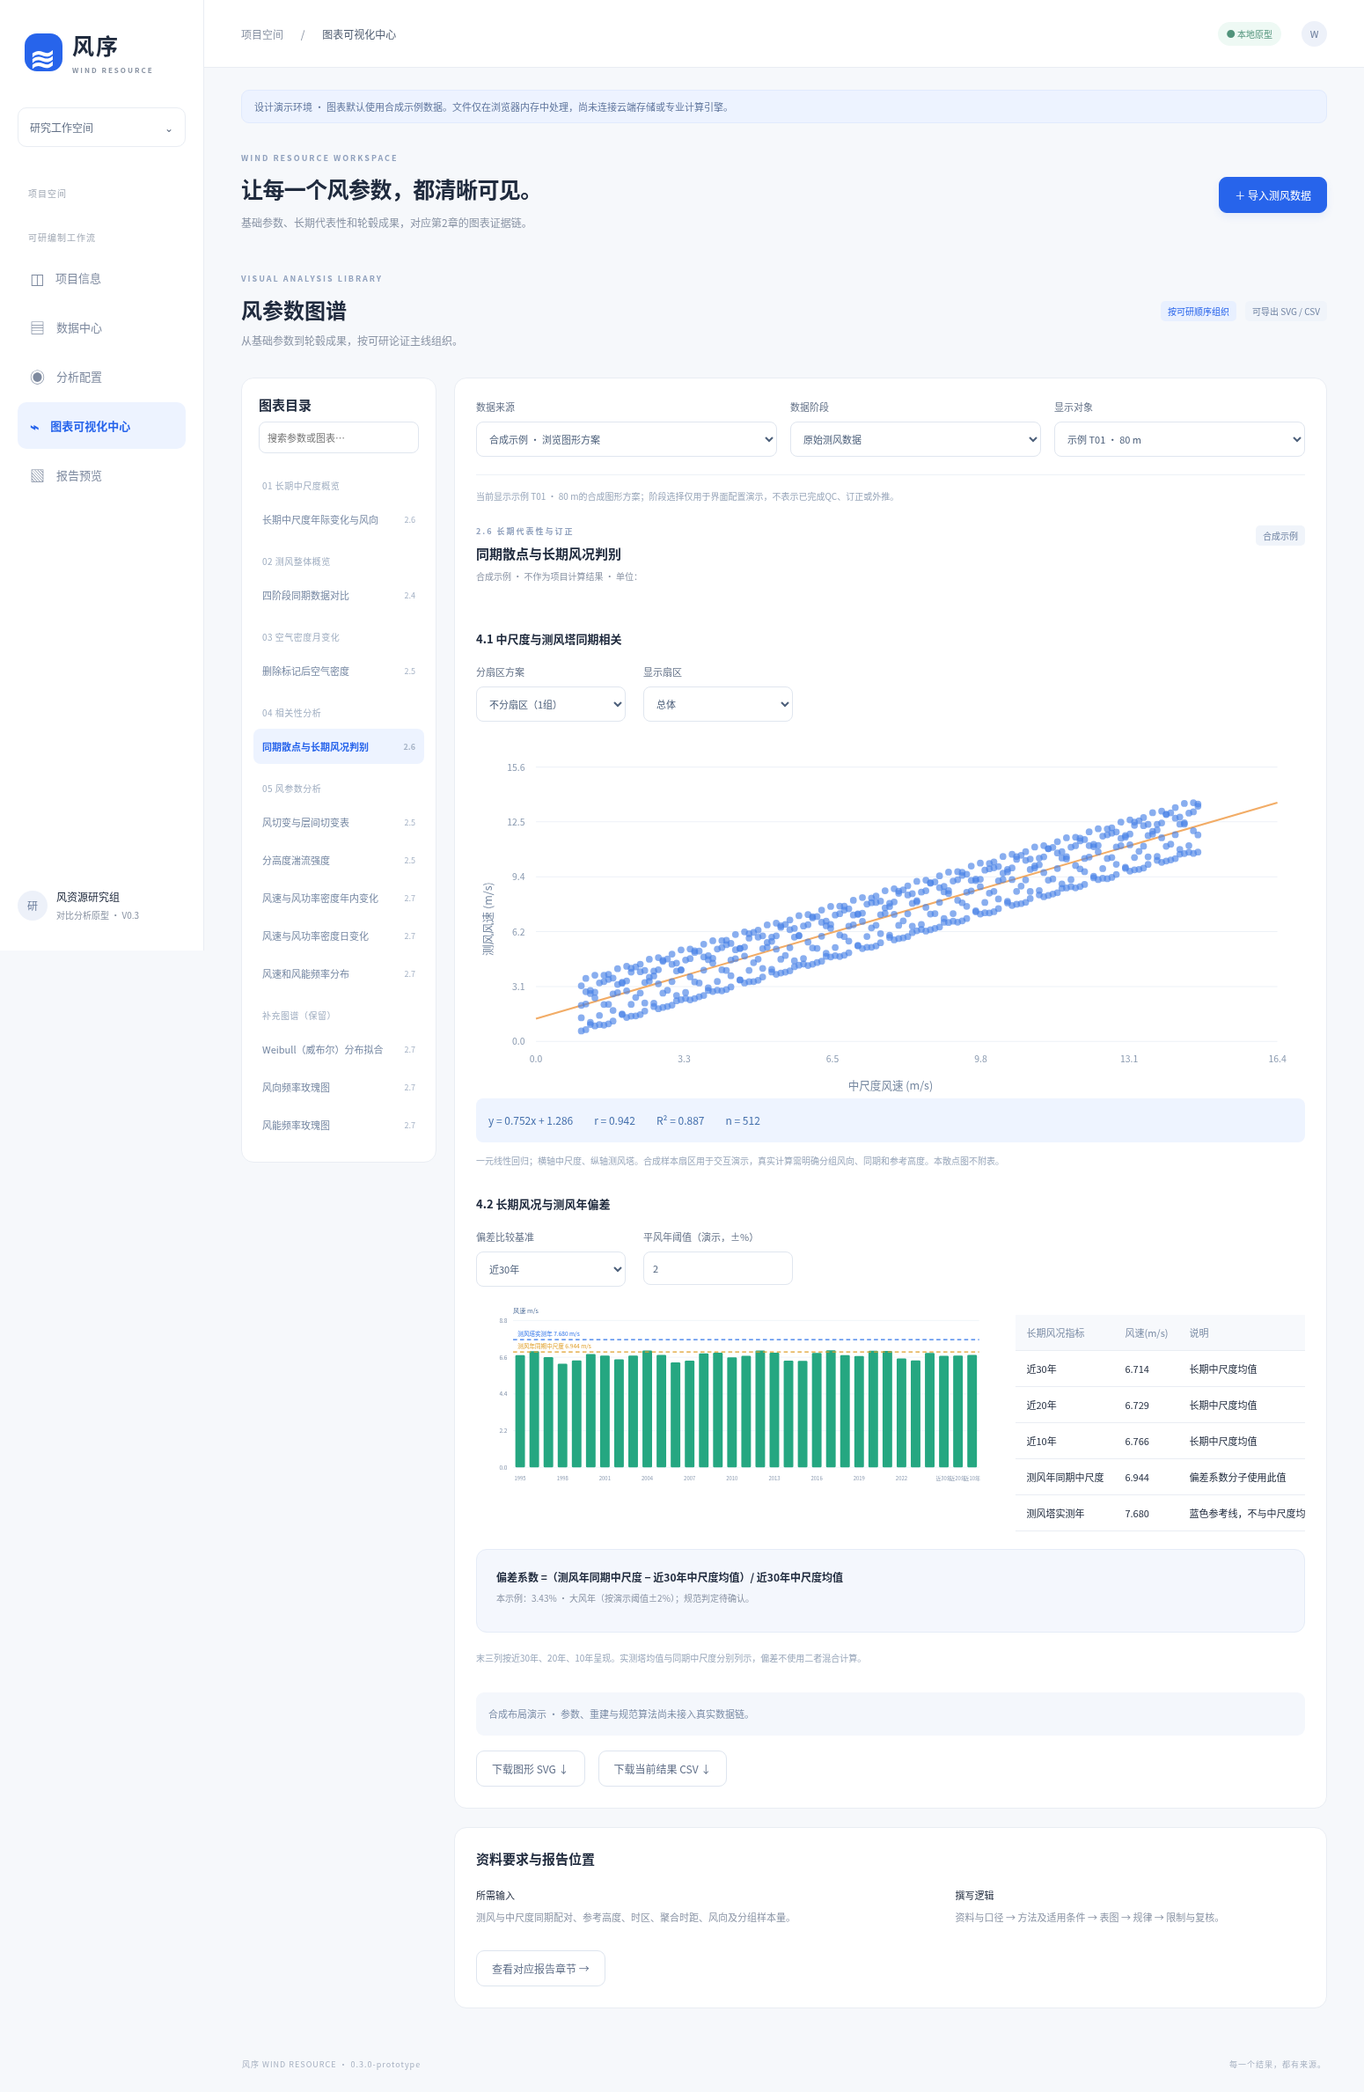
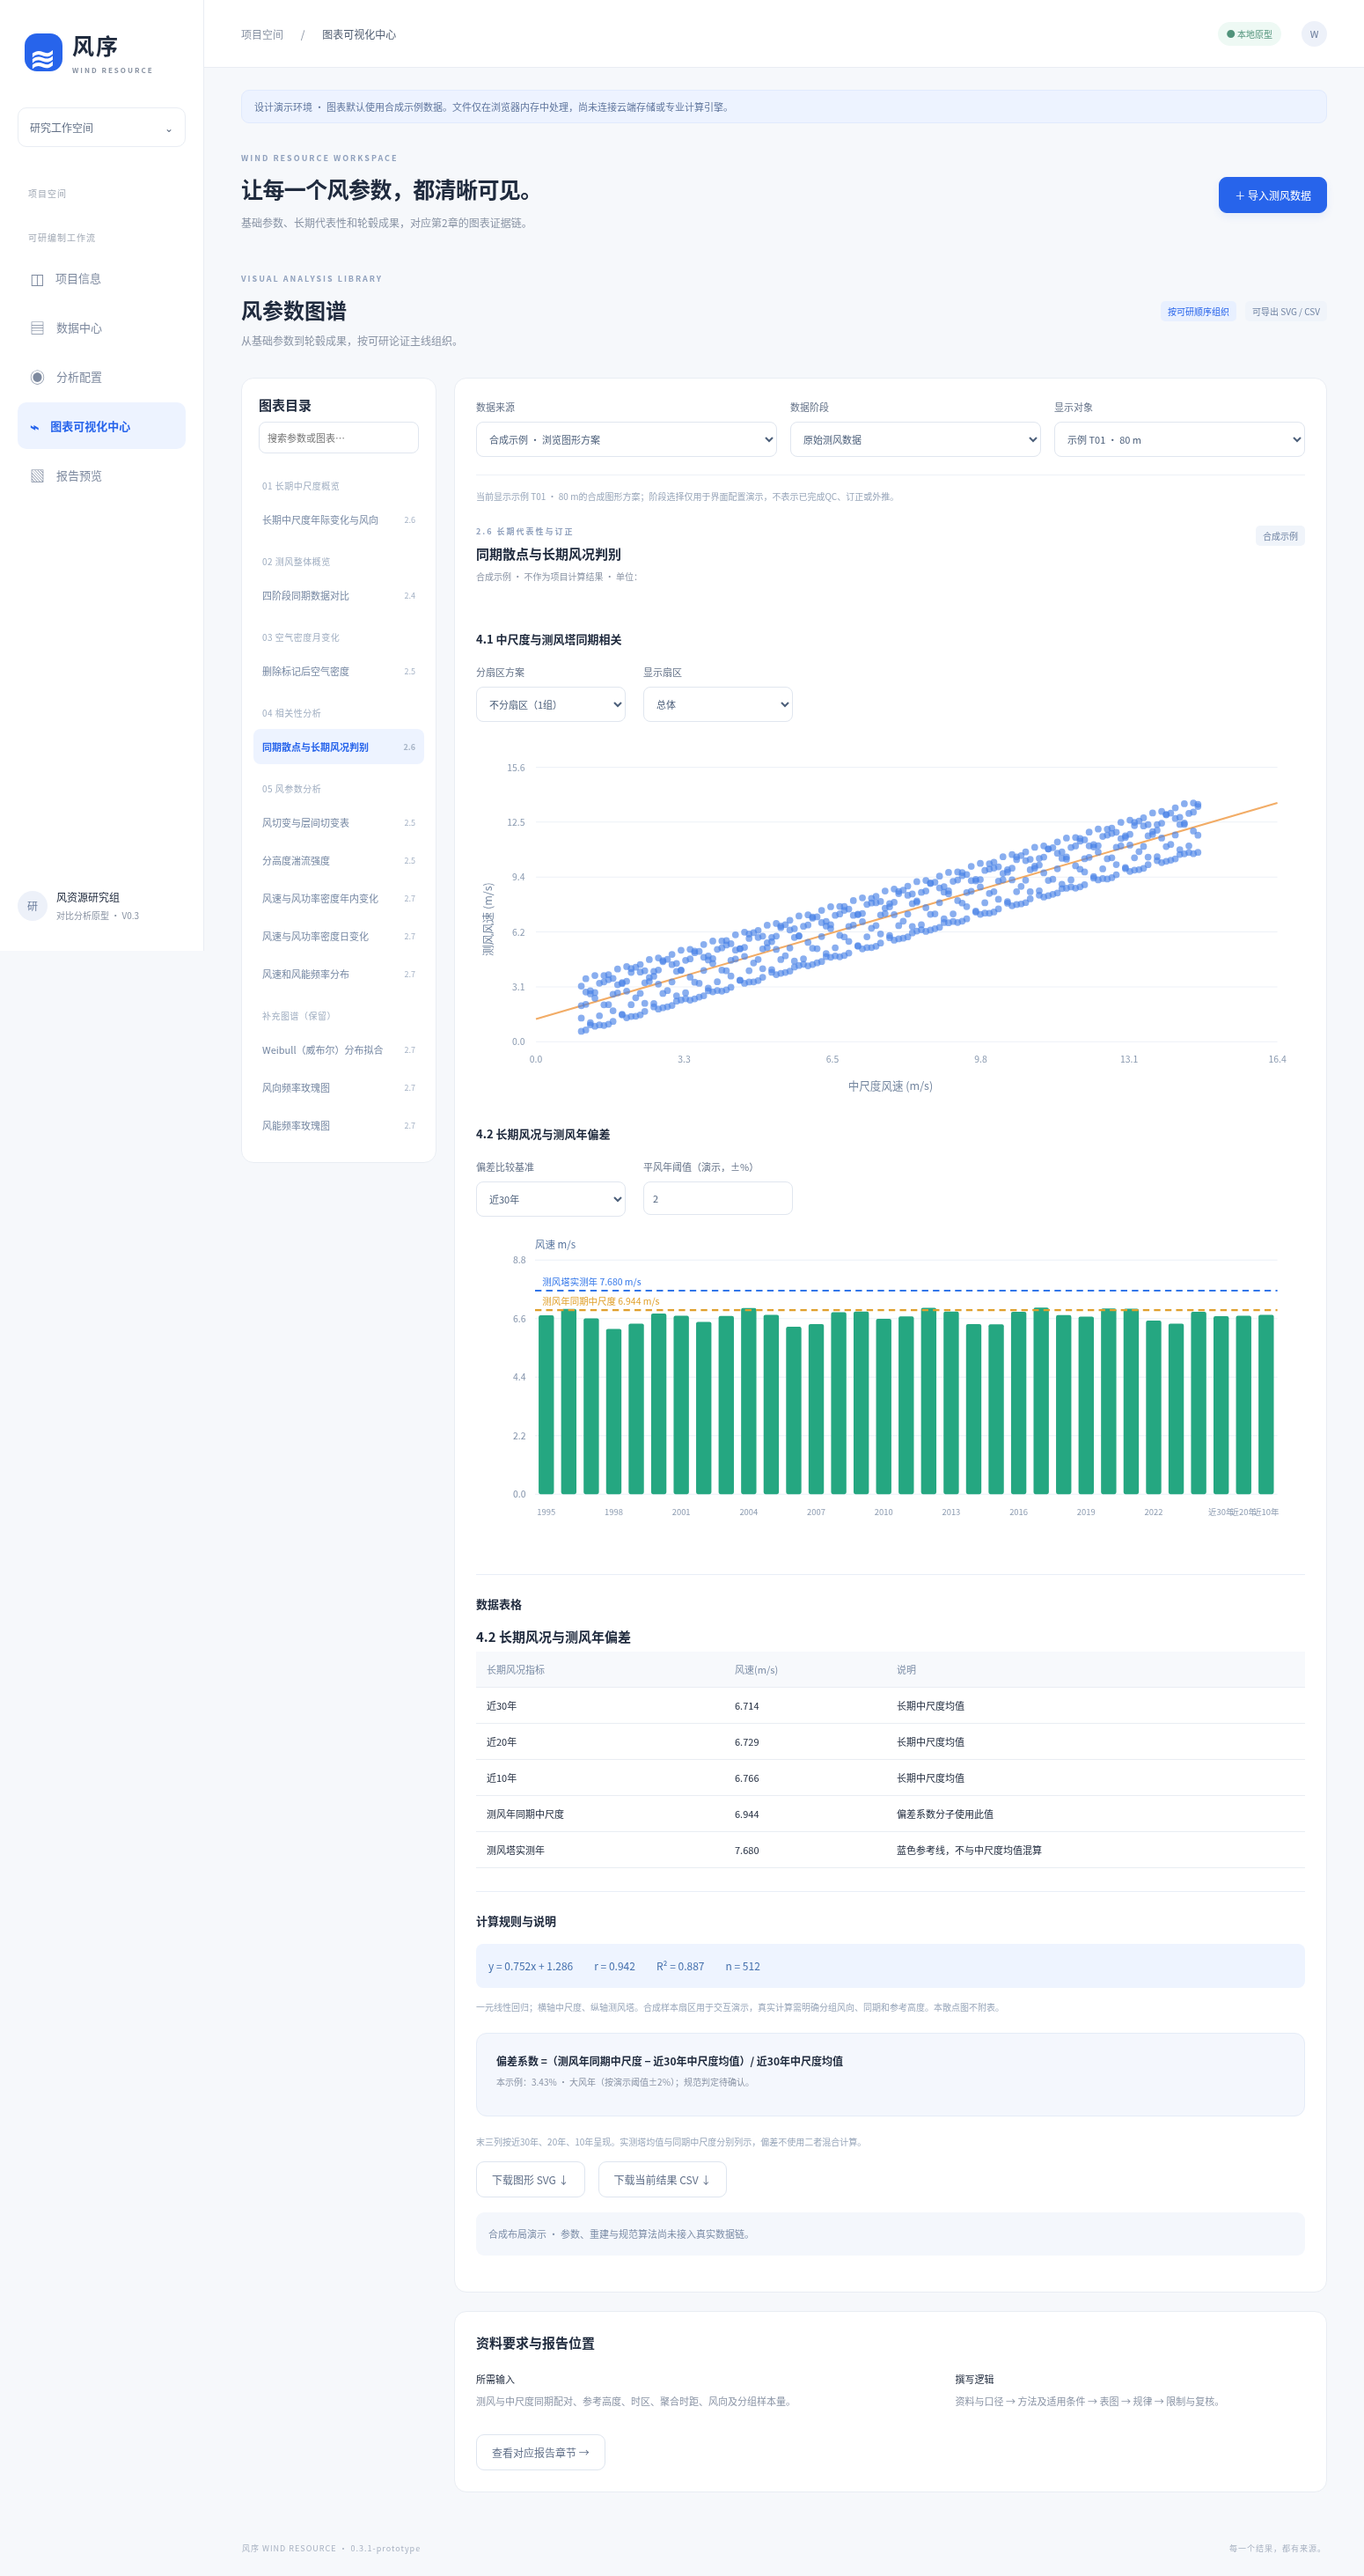
fix: present charts before tables and calculation rules

diff --git a/gui/style.css b/gui/style.css
@@ -3,3 +3,11 @@
 textarea{display:block;width:100%;resize:vertical;border:1px solid #e0e6ef;border-radius:9px;padding:12px;margin-top:9px;font:inherit;color:#4c5f7a}button:disabled{opacity:.45;cursor:not-allowed}.templateMap{margin:16px 0}.templateMap button{border:0;border-bottom:1px solid #eef2f7;background:none;display:flex;align-items:center;width:100%;padding:13px 0;text-align:left;font-size:11px;color:#687b96;gap:12px}.templateMap button span{color:#3e76cf;background:#edf4ff;padding:4px 7px;border-radius:5px;min-width:38px}.templateMap button small{margin-left:auto;color:#a1b0c6}.vizSummary{display:flex;align-items:center;justify-content:space-between;padding:5px 0 25px}.vizSummary h2{margin:10px 0 6px;font-size:24px}.vizlayout{display:grid;grid-template-columns:222px minmax(0,1fr);gap:20px}.chartcatalog{padding:19px 13px;height:fit-content;position:sticky;top:18px}.cataloghead{padding:0 6px 12px}.cataloghead input{font-size:11px;padding:9px}.graphgroup{font-size:10px;letter-spacing:.5px;color:#a0aec1;padding:17px 10px 8px}#chartTabs button{border:0;background:none;display:flex;width:100%;align-items:center;justify-content:space-between;text-align:left;font-size:11px;padding:12px 10px;border-radius:8px;color:#7587a2;gap:5px;margin:3px 0}#chartTabs button small{font-size:9px;color:#a6b3c6}#chartTabs button.selected{background:#edf3ff;color:#2764eb;font-weight:600}.vizmain{min-width:0}.vizfilters{display:grid;grid-template-columns:1.2fr 1fr 1fr;gap:15px;border-bottom:1px solid #edf1f7;padding-bottom:20px;margin-bottom:15px}.contextnote{font-size:10px;line-height:1.8;color:#98a6ba;margin:12px 0 24px}.chartStats{display:grid;grid-template-columns:repeat(3,minmax(0,1fr));gap:12px;margin-top:22px}.chartStats div{padding:13px;background:#f7f9fd;border-radius:9px;overflow-wrap:anywhere}.chartStats span{display:block;font-size:9px;color:#98a7ba;margin-bottom:8px}.chartStats b{font-size:12px;color:#4b6489;font-weight:500}.vizmain .large{min-height:220px}.vizmain .charttoolbar{justify-content:flex-start;flex-wrap:wrap;margin:0}.requiregrid{display:grid;grid-template-columns:1.3fr 1fr;gap:28px;margin:20px 0}.requiregrid b{font-size:11px;font-weight:500}.requiregrid p{font-size:11px}.missing{text-align:center;padding:45px 20px}.missing>span{font-size:45px;color:#abbdd7}.missing h3{color:#6d82a1;margin:12px 0}.missing p{max-width:600px;margin:15px auto 25px}.reportGraphLinks{display:flex;gap:8px;flex-wrap:wrap}.reportGraphLink{background:#f2f6ff;color:#5c79a7;border:1px solid #e0e9f8;border-radius:8px;padding:9px 12px;font-size:10px}.reportintro{margin-top:0}#sectorFilter{max-width:220px;margin-top:18px}.vizmain #chapterBinding{margin-bottom:8px}#mainChart svg{max-height:450px}.projectline h1{font-size:25px}@media(min-width:1600px){.vizlayout{grid-template-columns:240px minmax(0,1fr)}}@media(max-width:1150px){.vizlayout{grid-template-columns:190px minmax(0,1fr)}.vizfilters{grid-template-columns:1fr 1fr}.vizfilters label:first-child{grid-column:1/-1}.chartStats{gap:7px}.chartStats b{font-size:10px}}@media(max-width:850px){.vizlayout{grid-template-columns:1fr}.chartcatalog{position:static}.graphgroup{width:100%;padding-top:12px}#chartTabs{display:flex;flex-wrap:wrap;gap:5px}#chartTabs button{width:auto;border:1px solid #edf1f7;padding:9px 11px}#chartTabs button small{display:none}.vizSummary{align-items:flex-start;gap:12px}.vizSummary>div:last-child{white-space:nowrap}}@media(max-width:500px){.vizfilters{grid-template-columns:1fr}.vizfilters label:first-child{grid-column:auto}.chartStats{grid-template-columns:1fr 1fr}.chartStats div:last-child{grid-column:1/-1}.requiregrid{grid-template-columns:1fr;gap:10px}.vizSummary{flex-direction:column}.vizmain .charttoolbar{align-items:stretch}.vizmain .charttoolbar button{width:100%}.projectline h1{font-size:22px}}
 /* V0.3 feasibility-review compositions */
 .v03two{display:grid;grid-template-columns:1.6fr 1fr;gap:22px}.v03two.wideleft{grid-template-columns:1.8fr 1fr}.v03block{margin:25px 0 30px;min-width:0}.v03block>h3{font-size:13px;margin:0 0 17px}.v03block svg,.v03two svg{width:100%;height:auto;display:block}.v03legend{display:flex;gap:20px;flex-wrap:wrap;margin:13px 0;font-size:10px;color:#6a7e9b}.v03legend span{display:flex;align-items:center;gap:7px}.v03legend i,.v03toggles i{width:9px;height:9px;display:inline-block;border-radius:3px}.v03toggles{display:flex;gap:14px;flex-wrap:wrap;margin:24px 0}.v03toggles label{display:flex;align-items:center;gap:7px;border:1px solid #e6edf6;border-radius:8px;padding:10px}.v03toggles input{width:auto;margin:0}.v03density{display:grid;grid-template-columns:1fr 210px;gap:18px;align-items:center}.formulaCard{position:static;width:auto;inset:auto;display:block;padding:22px;background:#f4f7fd;border:1px solid #e5ecf7;border-radius:12px;height:auto;min-width:0}.formulaCard p{font-size:10px}.equation{font-size:20px;margin:23px 0;color:#416da9;white-space:nowrap}.inlineFormula{margin:20px 0;font-size:12px}.v03controls{display:flex;gap:20px;flex-wrap:wrap;margin:20px 0}.v03controls label{min-width:170px}.v03fit{background:#eef4ff;padding:14px;border-radius:8px;font-size:12px;color:#4671ad;line-height:1.8}#v03Composition{margin-top:22px;min-width:0}#v03Composition>svg{width:100%;height:auto}#v03Composition .tablewrap{margin-top:12px}.v03two>.tablewrap{align-self:center}.vizmain{overflow:hidden}@media(max-width:1200px){.v03two,.v03two.wideleft,.v03density{grid-template-columns:1fr}.v03two svg{max-height:360px}.formulaCard{padding:17px}}@media(max-width:500px){.v03controls{flex-direction:column}.v03controls label{min-width:0}.v03toggles label{width:100%}.v03fit{font-size:10px}.inlineFormula{font-size:10px}}
+
+/* All chart pages present figures, tables, then rules. */
+.presentationFigures .v03density,.presentationFigures .v03two.wideleft{grid-template-columns:1fr}
+.presentationTables,.presentationRules{border-top:1px solid #e8eef7;margin-top:26px;padding-top:23px}
+.presentationTables>h3,.presentationRules>h3{font-size:13px;margin-bottom:17px}
+.presentationRules .formulaCard{position:static;width:auto;max-width:none}
+.presentationRules .contextnote{margin:13px 0}
+.presentationFigures>.tag{margin-bottom:15px}

diff --git a/gui/viz-v03.js b/gui/viz-v03.js
@@ -53,5 +53,38 @@ const renderV02=renderChart;
 renderChart=function(){const id=chartType;if($('#chartSource').value!=='example'||!ordered.some(g=>g[0]===id)){renderV02();$('#v03Composition')?.remove();$('#mainChart').style.display='';$('#chartTable').style.display='';$('#toggleTable').style.display='';return}renderV02();$('#v03Composition')?.remove();$('#mainChart').style.display='none';$('#chartTable').style.display='none';$('#sectorFilter').hidden=true;$('#toggleTable').style.display='none';$('#chartStats').innerHTML='';const wrap=document.createElement('div');wrap.id='v03Composition';const content={longterm:v03Long,overviewLines:v03Overview,density:v03Density,correlation:v03Correlation,shear:v03Shear,turbulence:v03Turbulence,monthly:()=>v03Time(false),daily:()=>v03Time(true),frequency:v03Frequency};wrap.innerHTML=content[id]();$('#mainChart').after(wrap);$('#svgDownload').disabled=false;$('#csvDownload').disabled=false;$('#chartNote').textContent='合成布局演示 · 参数、重建与规范算法尚未接入真实数据链。';$$('[data-series]').forEach(e=>e.onchange=()=>{v03State.visible[+e.dataset.series]=e.checked;renderChart()});if($('#v03SectorCount')){$('#v03SectorCount').value=v03State.sectorCount;$('#v03Sector').value=v03State.sector;$('#v03Baseline').value=v03State.baseline;$('#v03SectorCount').onchange=e=>{v03State.sectorCount=+e.target.value;v03State.sector='all';renderChart()};$('#v03Sector').onchange=e=>{v03State.sector=e.target.value;renderChart()};$('#v03Baseline').onchange=e=>{v03State.baseline=+e.target.value;renderChart()};$('#v03Threshold').onchange=e=>{const n=+e.target.value;if(!Number.isFinite(n)||n<0||n>100){toast('演示阈值需为0—100之间。');return}v03State.threshold=n;renderChart()}}};
 // Export a multi-panel SVG while preserving all panels and a source watermark.
 $('#svgDownload').onclick=()=>{const svgs=$('#v03Composition')?[...$('#v03Composition').querySelectorAll('svg')]:[$('#mainChart svg')].filter(Boolean);if(!svgs.length)return;let offset=40,total=40;const panels=svgs.map(svg=>{const v=svg.getAttribute('viewBox').split(' ').map(Number),height=900*v[3]/v[2];total+=height+25;return {svg,v,height}});let merged=`<svg xmlns="http://www.w3.org/2000/svg" viewBox="0 0 900 ${total}"><rect width="100%" height="100%" fill="white"/><text x="20" y="24" font-family="sans-serif" font-size="15">${esc(activeGraph.title)} · ${$('#chartSource').value==='example'?'合成示例，非项目成果':'真实文件基础预检'}</text>`;panels.forEach(p=>{merged+=`<svg x="0" y="${offset}" width="900" height="${p.height}" viewBox="${p.v.join(' ')}">${p.svg.innerHTML}</svg>`;offset+=p.height+25});merged+='</svg>';download(activeGraph.title+'.svg',merged,'image/svg+xml;charset=utf-8')};
+// Consistent presentation: charts first, then data tables, then calculation rules.
+function arrangeChartPresentation(){
+ const root=$('#v03Composition');
+ if(root){
+  const tables=[...root.querySelectorAll('.tablewrap')];
+  const rules=[...root.querySelectorAll('.formulaCard,.v03fit,p.contextnote')];
+  tables.forEach(node=>{const heading=node.closest('.v03block')?.querySelector('h3');if(heading)node.prepend(heading.cloneNode(true));node.remove()});
+  rules.forEach(node=>node.remove());
+  // Drop headings whose entire table or explanation has been relocated.
+  root.querySelectorAll('.v03block').forEach(node=>{
+   if(!node.querySelector('svg,input,select,table')&&!node.querySelector('.v03legend'))node.remove();
+  });
+  const figures=document.createElement('section');figures.className='presentationFigures';
+  while(root.firstChild)figures.append(root.firstChild);
+  root.append(figures);
+  if(!tables.length&&chartType==='overviewLines'){
+   const node=document.createElement('div');node.className='tablewrap';node.innerHTML=table(currentHeaders,currentRows);tables.push(node);
+  }
+  if(tables.length){
+   const section=document.createElement('section');section.className='presentationTables';section.innerHTML='<h3>数据表格</h3>';
+   tables.forEach(node=>section.append(node));root.append(section);
+  }
+  const section=document.createElement('section');section.className='presentationRules';section.innerHTML='<h3>计算规则与说明</h3>';
+  rules.forEach(node=>section.append(node));
+  if(!rules.length)section.insertAdjacentHTML('beforeend','<p>表图采用同一示例数据口径；实际计算需确认数据来源、时段、单位与处理方法。</p>');
+  root.append(section);
+ }
+ // Shared notes for original and imported views follow the result table too.
+ const note=$('#chartNote'),tableNode=$('#chartTable');
+ tableNode.after(note);
+}
+const renderOrderedCharts=renderChart;
+renderChart=function(){renderOrderedCharts();arrangeChartPresentation()};
 chartType='longterm';
 metrics();renderSlots();windowPreview();renderReport();renderCatalog();navigate(location.hash.slice(1)||'overview');

diff --git a/tests/smoke.py b/tests/smoke.py
@@ -16,6 +16,14 @@ with sync_playwright() as p:
   page.click(f'[data-chart="{key}"]')
   assert page.locator('#v03Composition svg,#mainChart svg').count()>0,key
  assert len(ids)==12
+ # Ensure rendered chart groups precede tables, and all rules follow tables.
+ for key in ids[:9]:
+  page.click(f'[data-chart="{key}"]')
+  assert page.evaluate("""()=>{
+   const r=document.querySelector('#v03Composition');
+   const graph=r.querySelector('svg'), table=r.querySelector('table'), rules=r.querySelector('.presentationRules');
+   return !!graph && !!rules && (!table || !!(graph.compareDocumentPosition(table)&Node.DOCUMENT_POSITION_FOLLOWING)) && (!table || !!(table.compareDocumentPosition(rules)&Node.DOCUMENT_POSITION_FOLLOWING));
+  }"""),key
  page.click('[data-chart="longterm"]');assert page.locator('#v03Composition svg').count()==2
  assert page.locator('#v03Composition table tr').count()==2
  page.click('[data-chart="overviewLines"]');assert page.locator('[data-series]').count()==4
@@ -74,7 +82,7 @@ with sync_playwright() as p:
  offline.goto('http://127.0.0.1:8000/standalone.html',wait_until='load')
  offline.click('nav [data-page="charts"]');offline.click('[data-chart="overviewLines"]')
  assert offline.locator('[data-series]').count()==4
- assert '0.3.0' in offline.locator('.appfooter').inner_text()
+ assert '0.3.1' in offline.locator('.appfooter').inner_text()
  assert not errors,errors
  b.close()
  print('PASS: chart order, four toggles/gaps, radar/year table, density colors/formula, 1/12/16 regression, baseline deviation, multiheight dual axes/tables, CSV/SVG/report downloads, real-source guard, mobile and offline GUI.')

diff --git a/docs/验证记录.md b/docs/验证记录.md
@@ -40,3 +40,7 @@
 浏览器核对：9个主图入口顺序、3个补充入口、左年际右雷达与横向年份表、四线独立开关（全部关闭仍可恢复）、QC缺口、密度12绿柱和1红柱、平均值行、1/12/16回归分组、基准切换引起偏差更新、分高度湍流五列表、三个高度双轴图与7列总表、24小时行数、分高度双频率图、多面板SVG/CSV下载、真实来源阻断、报告下载、窄屏与离线单文件。无浏览器脚本错误。
 
 图形及阈值为合成示例；规范算法、实际资料同期对齐与正式机组等级不在通过项中。截图为GUI-V03-空气密度.png、GUI-V03-相关性组合.png。
+
+## V0.3.1
+
+浏览器增加9个主视图的DOM显示顺序校验：图形先于表，规则位于表后；保留多高度表标题。原有组合图、导出、真实来源保护与窄屏测试同时执行。

diff --git a/CHANGELOG.md b/CHANGELOG.md
@@ -32,3 +32,9 @@
 - 同期散点支持1/12/16扇区、一元回归公式与r/R²；长期风况采用30/20/10年末柱、塔实测/同期中尺度参考线、可选基准与偏差。
 - 多高度切变、湍流、双轴月/日变化、频率图及相应汇总表重排；湍流等级保留待审核。
 - 明确专业计算仍为合成图形原型；真实导入缺项保护保留。假定用户重复的“20年”为“10年”，并在界面说明。
+
+## v0.3.1-prototype · 2026-11-06
+
+- 图表中心统一顺序：图形 → 数据表格 → 计算规则与说明。
+- 密度公式移至表格后；相关性长期比较表不再与图并排；切变与湍流说明统一后置，多高度表保留标题。
+- 保留图前交互控件及散点不附表的约定；四阶段概览增加配套数据表。
